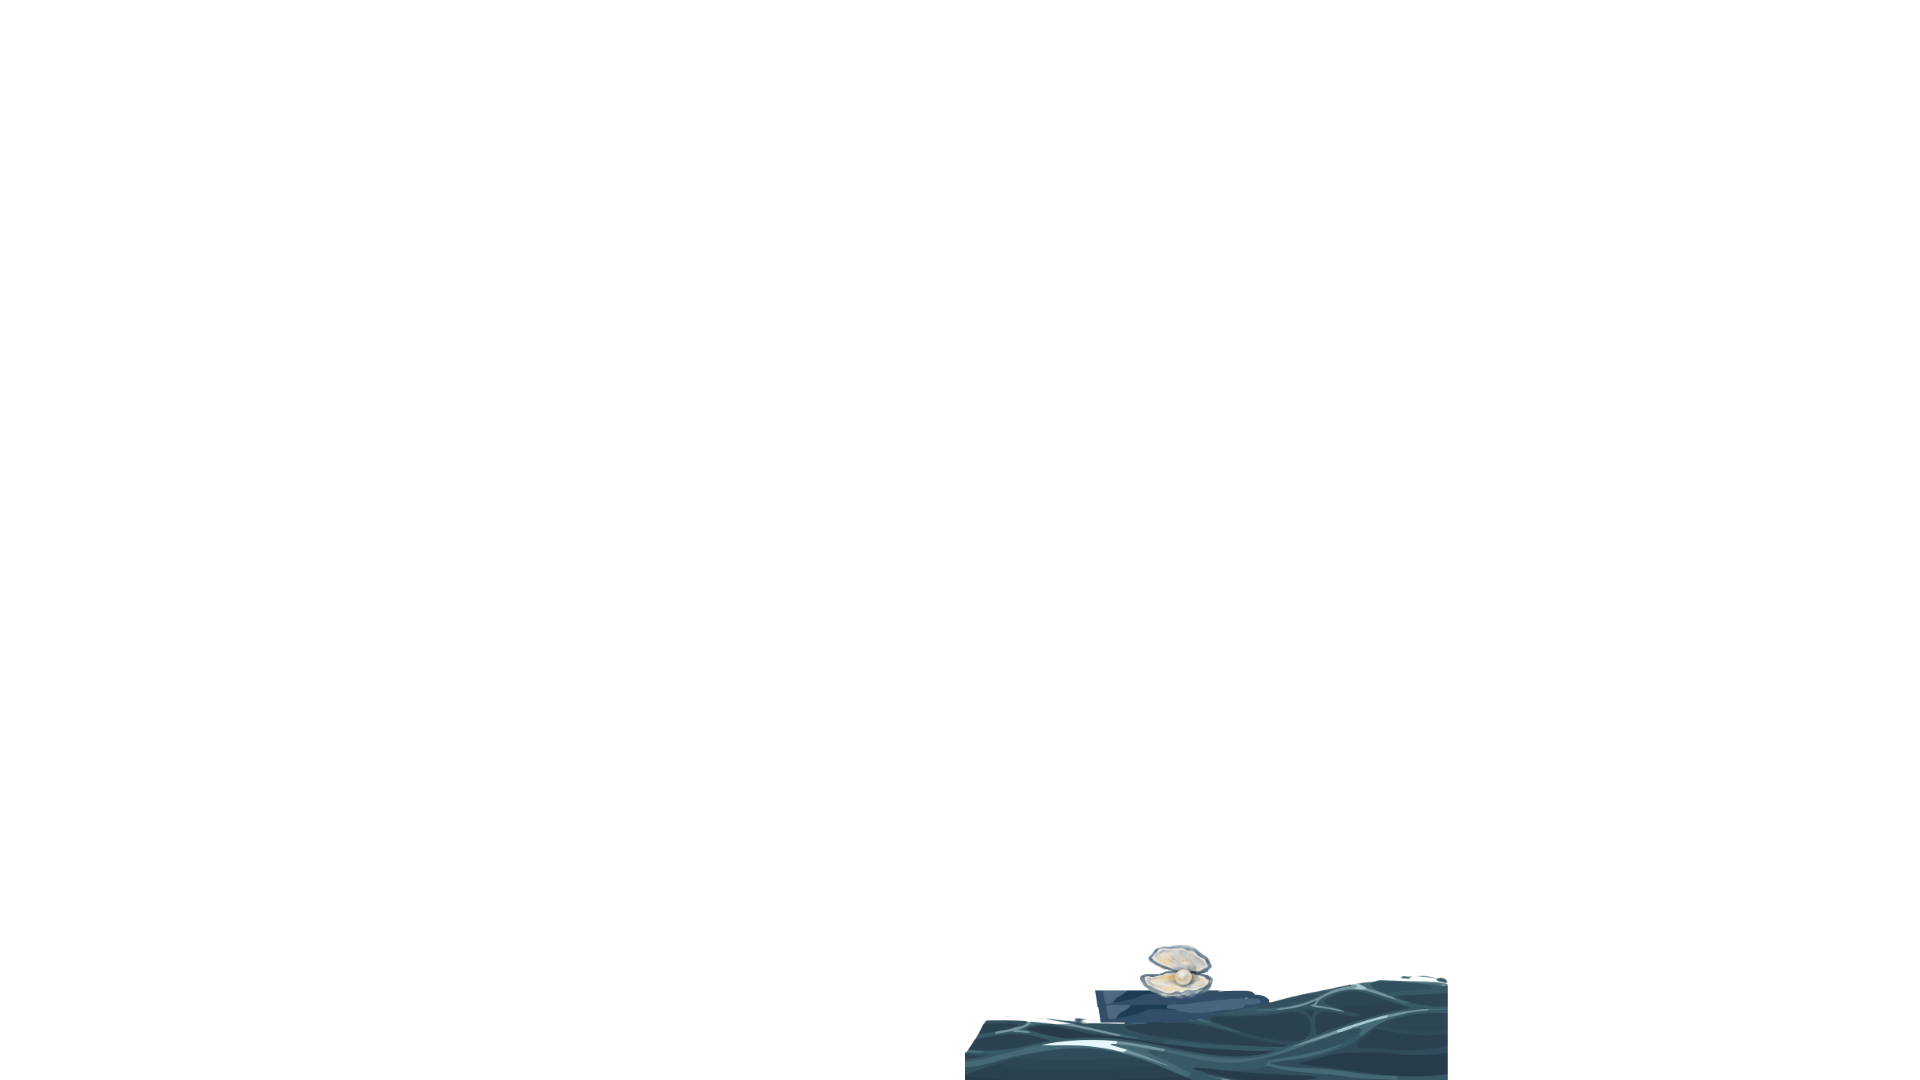
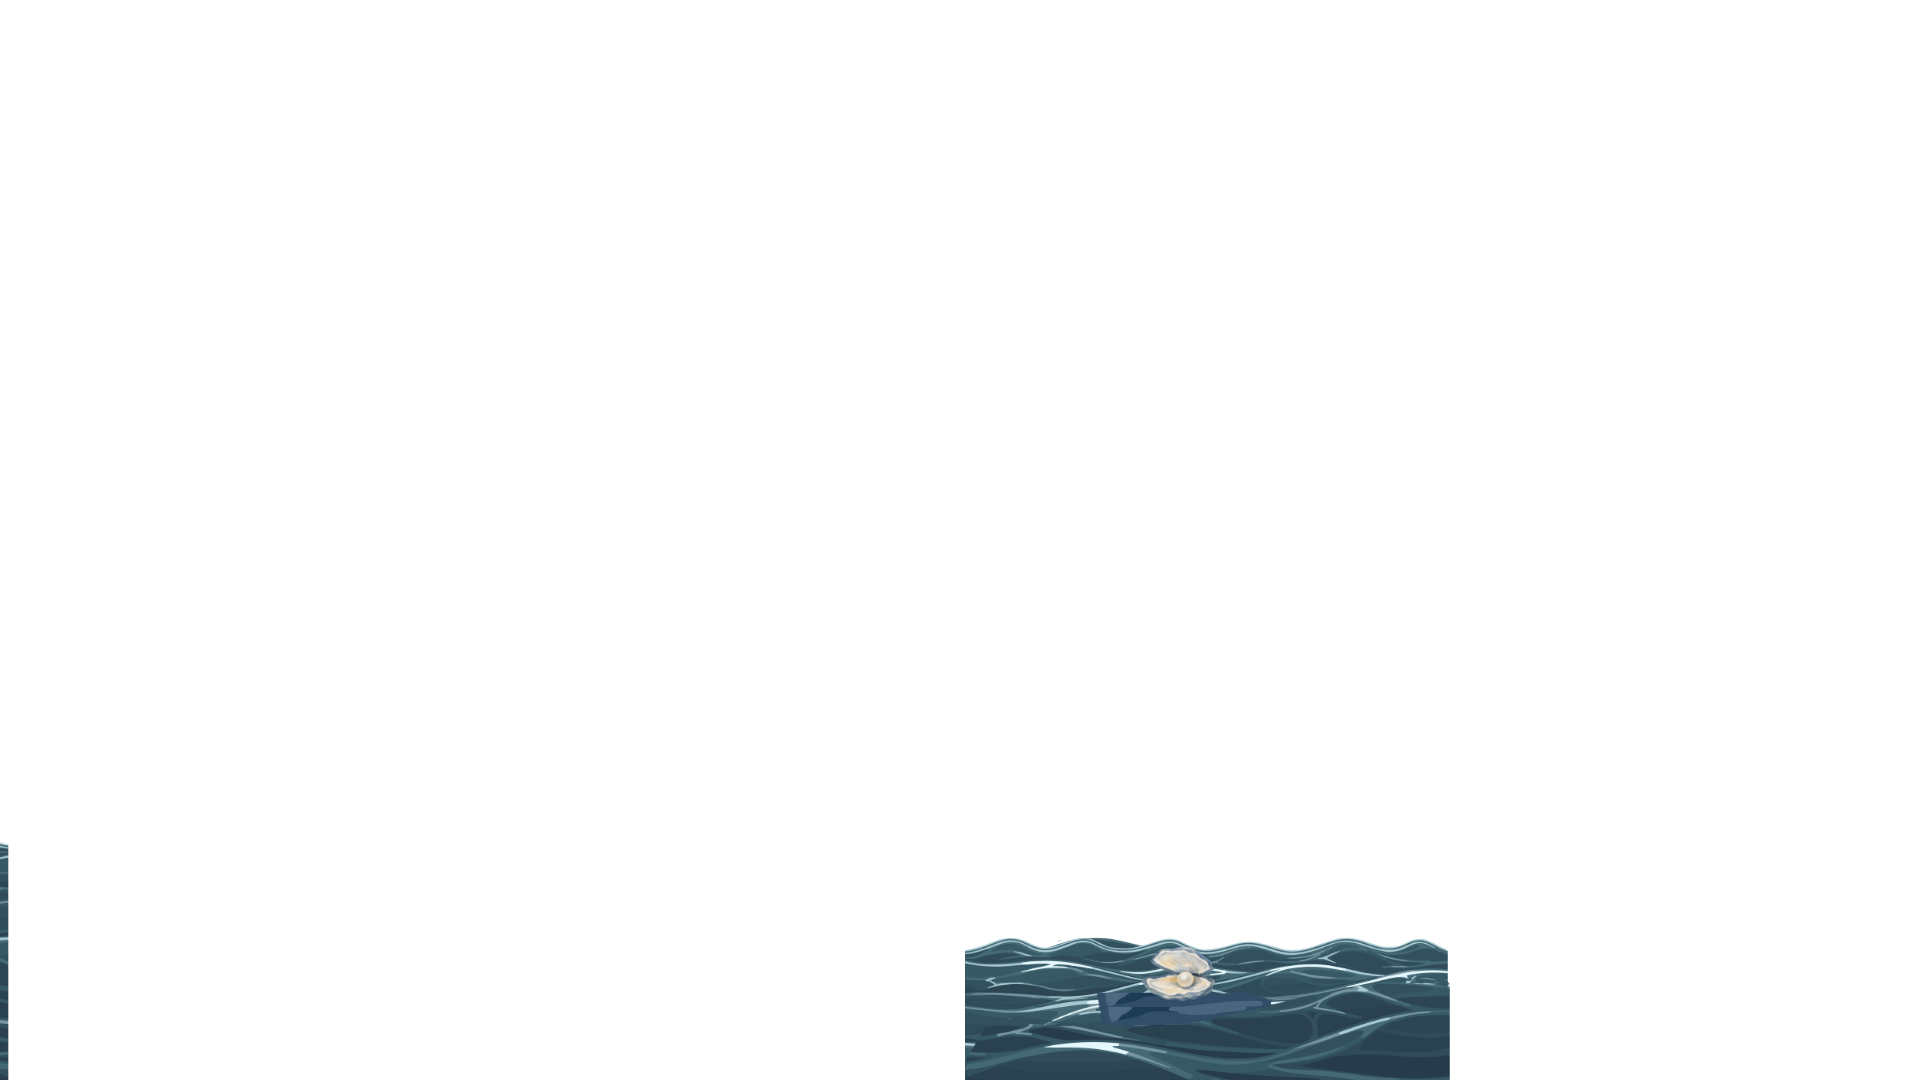
fixing UI

Changed region(s): [[0.5, 0.8556, 0.7812, 1.0], [0.0, 0.7944, 0.0312, 1.0]]

diff --git a/undersites/observatory.html b/undersites/observatory.html
@@ -27,7 +27,7 @@
    
 
     <!--music-->
-   <div id="music_mussel" style="position: absolute; bottom: -2.6vh; right: -11.7%; width: 130vw; height: auto; z-index: 90; pointer-events: none;">
+   <div id="music_mussel" style="position: absolute; bottom: -4.3vh; right: -11.7%; width: 130vw; height: auto; z-index: 90; pointer-events: none;">
   <img src="../graphics/observatory/sterne mussel.png" style="display: block; width: 100%; height: auto; max-width: none; pointer-events: none;">
   <img class="disk" title="Click me to hear some music while exploring!" id="disk" src="https://i.postimg.cc/ZqhVJxg3/CD.png" style="position: absolute; width: 1.9%; height: auto; bottom: 8%; left: 60.5%; z-index: 9999; pointer-events: all; user-select: none;">
   <audio id="audio" loop><source src="../graphics/sergepavkinmusic-deep-in-the-ocean-116172.mp3" type="audio/mpeg"></audio>
@@ -37,7 +37,7 @@
 
     <!--flashlight styling -->
      <div id="rock_lamp" style="position:absolute; margin:0; padding:0;bottom:-0.3vh; left: 0; width: 14vw; height: 35vh; ">
-    <img src="../graphics/observatory/sterne rock.png" style="position:absolute; pointer-events:none; z-index: 14; bottom:0; margin:0; left:0; width:auto; height:300%;">
+    <img src="../graphics/observatory/sterne rock.png" style="position:absolute; pointer-events:none; z-index: 10; bottom:0; margin:0; left:0; width:auto; height:300%;">
      <img id="taschenlampe" src="../graphics/Flashlight.png" title="Click me and see what happens (or press L/l)!"  style="width: 25%; height: auto; position: absolute; bottom: 95%; left: 55%;  z-index: 9999; pointer-events: all !important; user-select: none;">
     </div>
   </div>
